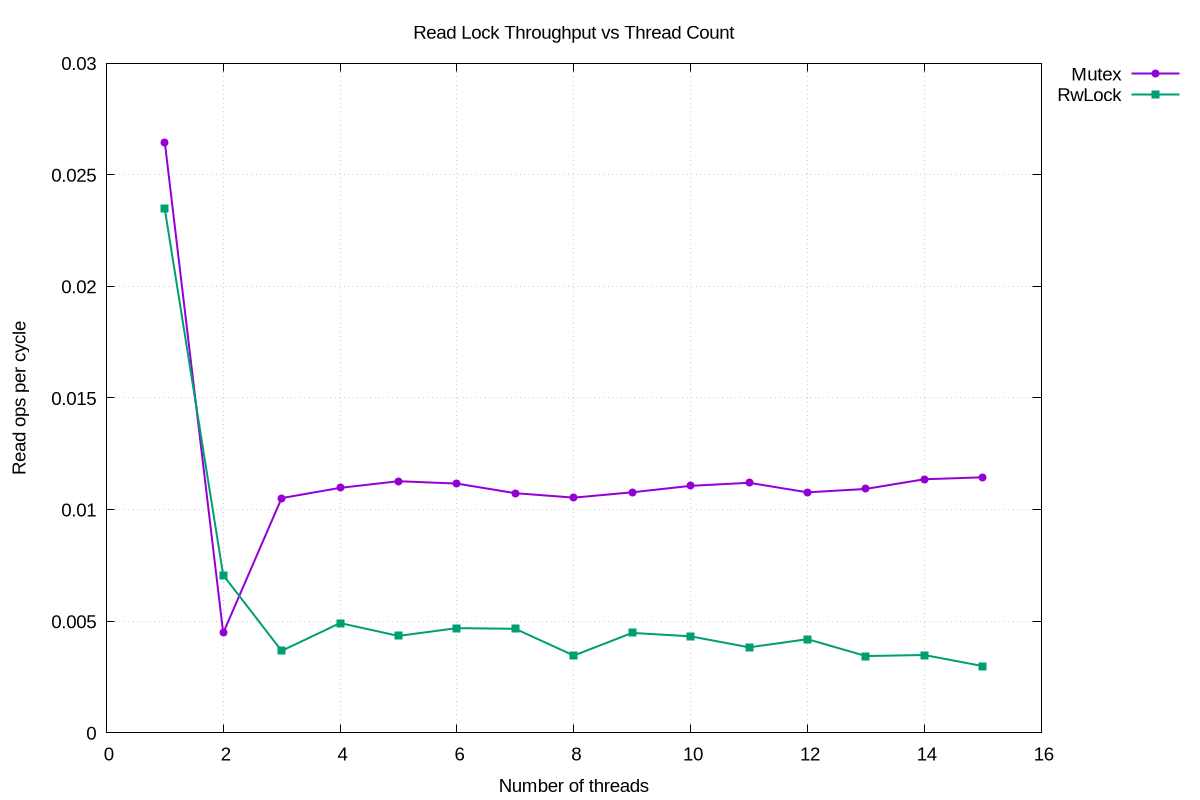
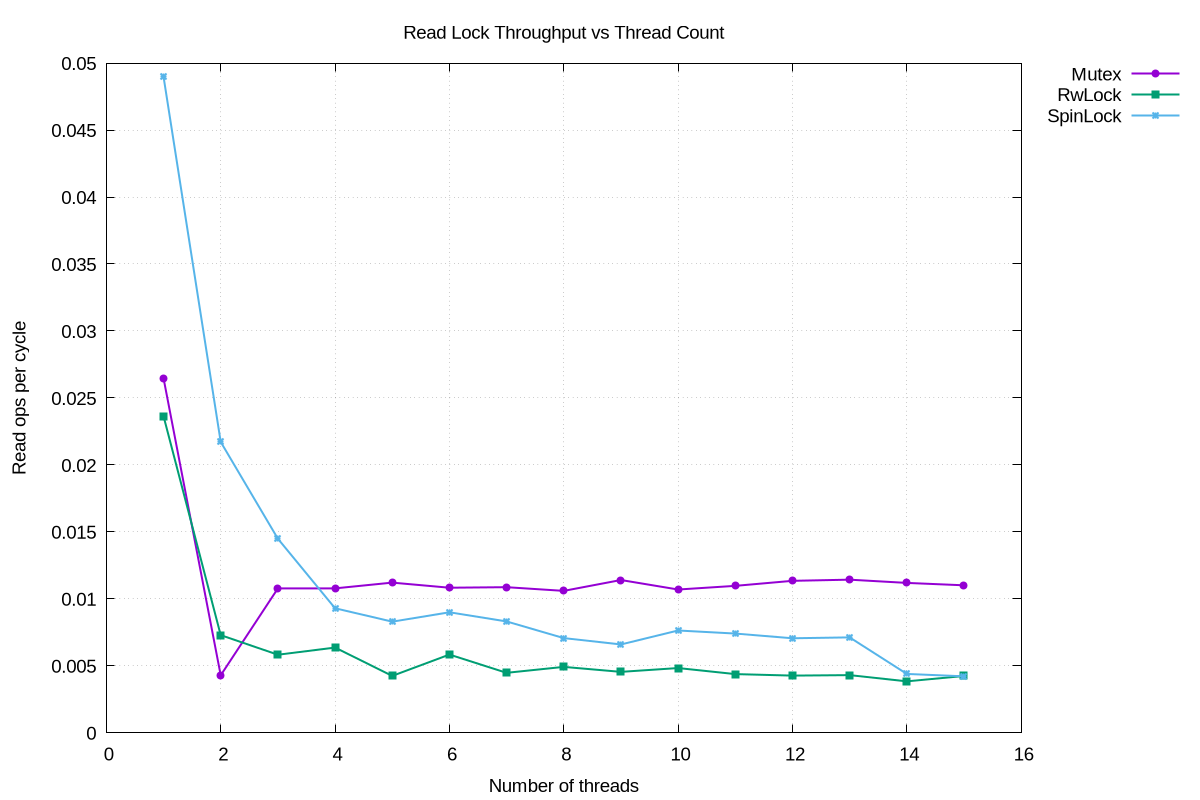
Looking more into this

diff --git a/src/main.rs b/src/main.rs
@@ -2,8 +2,14 @@
 
 #[cfg(feature = "rwlock")]
 use std::sync::RwLock;
-use std::{arch::x86_64::{__rdtscp, _mm_lfence}, sync::{Arc, Mutex, atomic::{AtomicBool, AtomicU64, Ordering}}, thread, time::Duration};
+use std::{arch::x86_64::{__rdtscp, _mm_lfence}, sync::{Arc, atomic::{AtomicBool, AtomicU64, Ordering}}, thread, time::Duration};
 use std::hint::black_box;
+
+#[cfg(all(not(feature = "rwlock"), not(feature = "spinlock")))]
+use std::sync::Mutex;
+
+#[cfg(feature = "spinlock")]
+use spin::{self, Mutex};
 
 fn main() {
     #[cfg(not(feature = "rwlock"))]
@@ -39,9 +45,15 @@ fn main() {
                         black_box(*guard);
                     }
 
-                    #[cfg(not(feature = "rwlock"))]
+                    #[cfg(all(not(feature = "rwlock"), not(feature = "spinlock")))]
                     {
                         let guard = counter.lock().unwrap();
+                        black_box(*guard);
+                    }
+
+                    #[cfg(feature = "spinlock")]
+                    {
+                        let guard = counter.lock();
                         black_box(*guard);
                     }
 